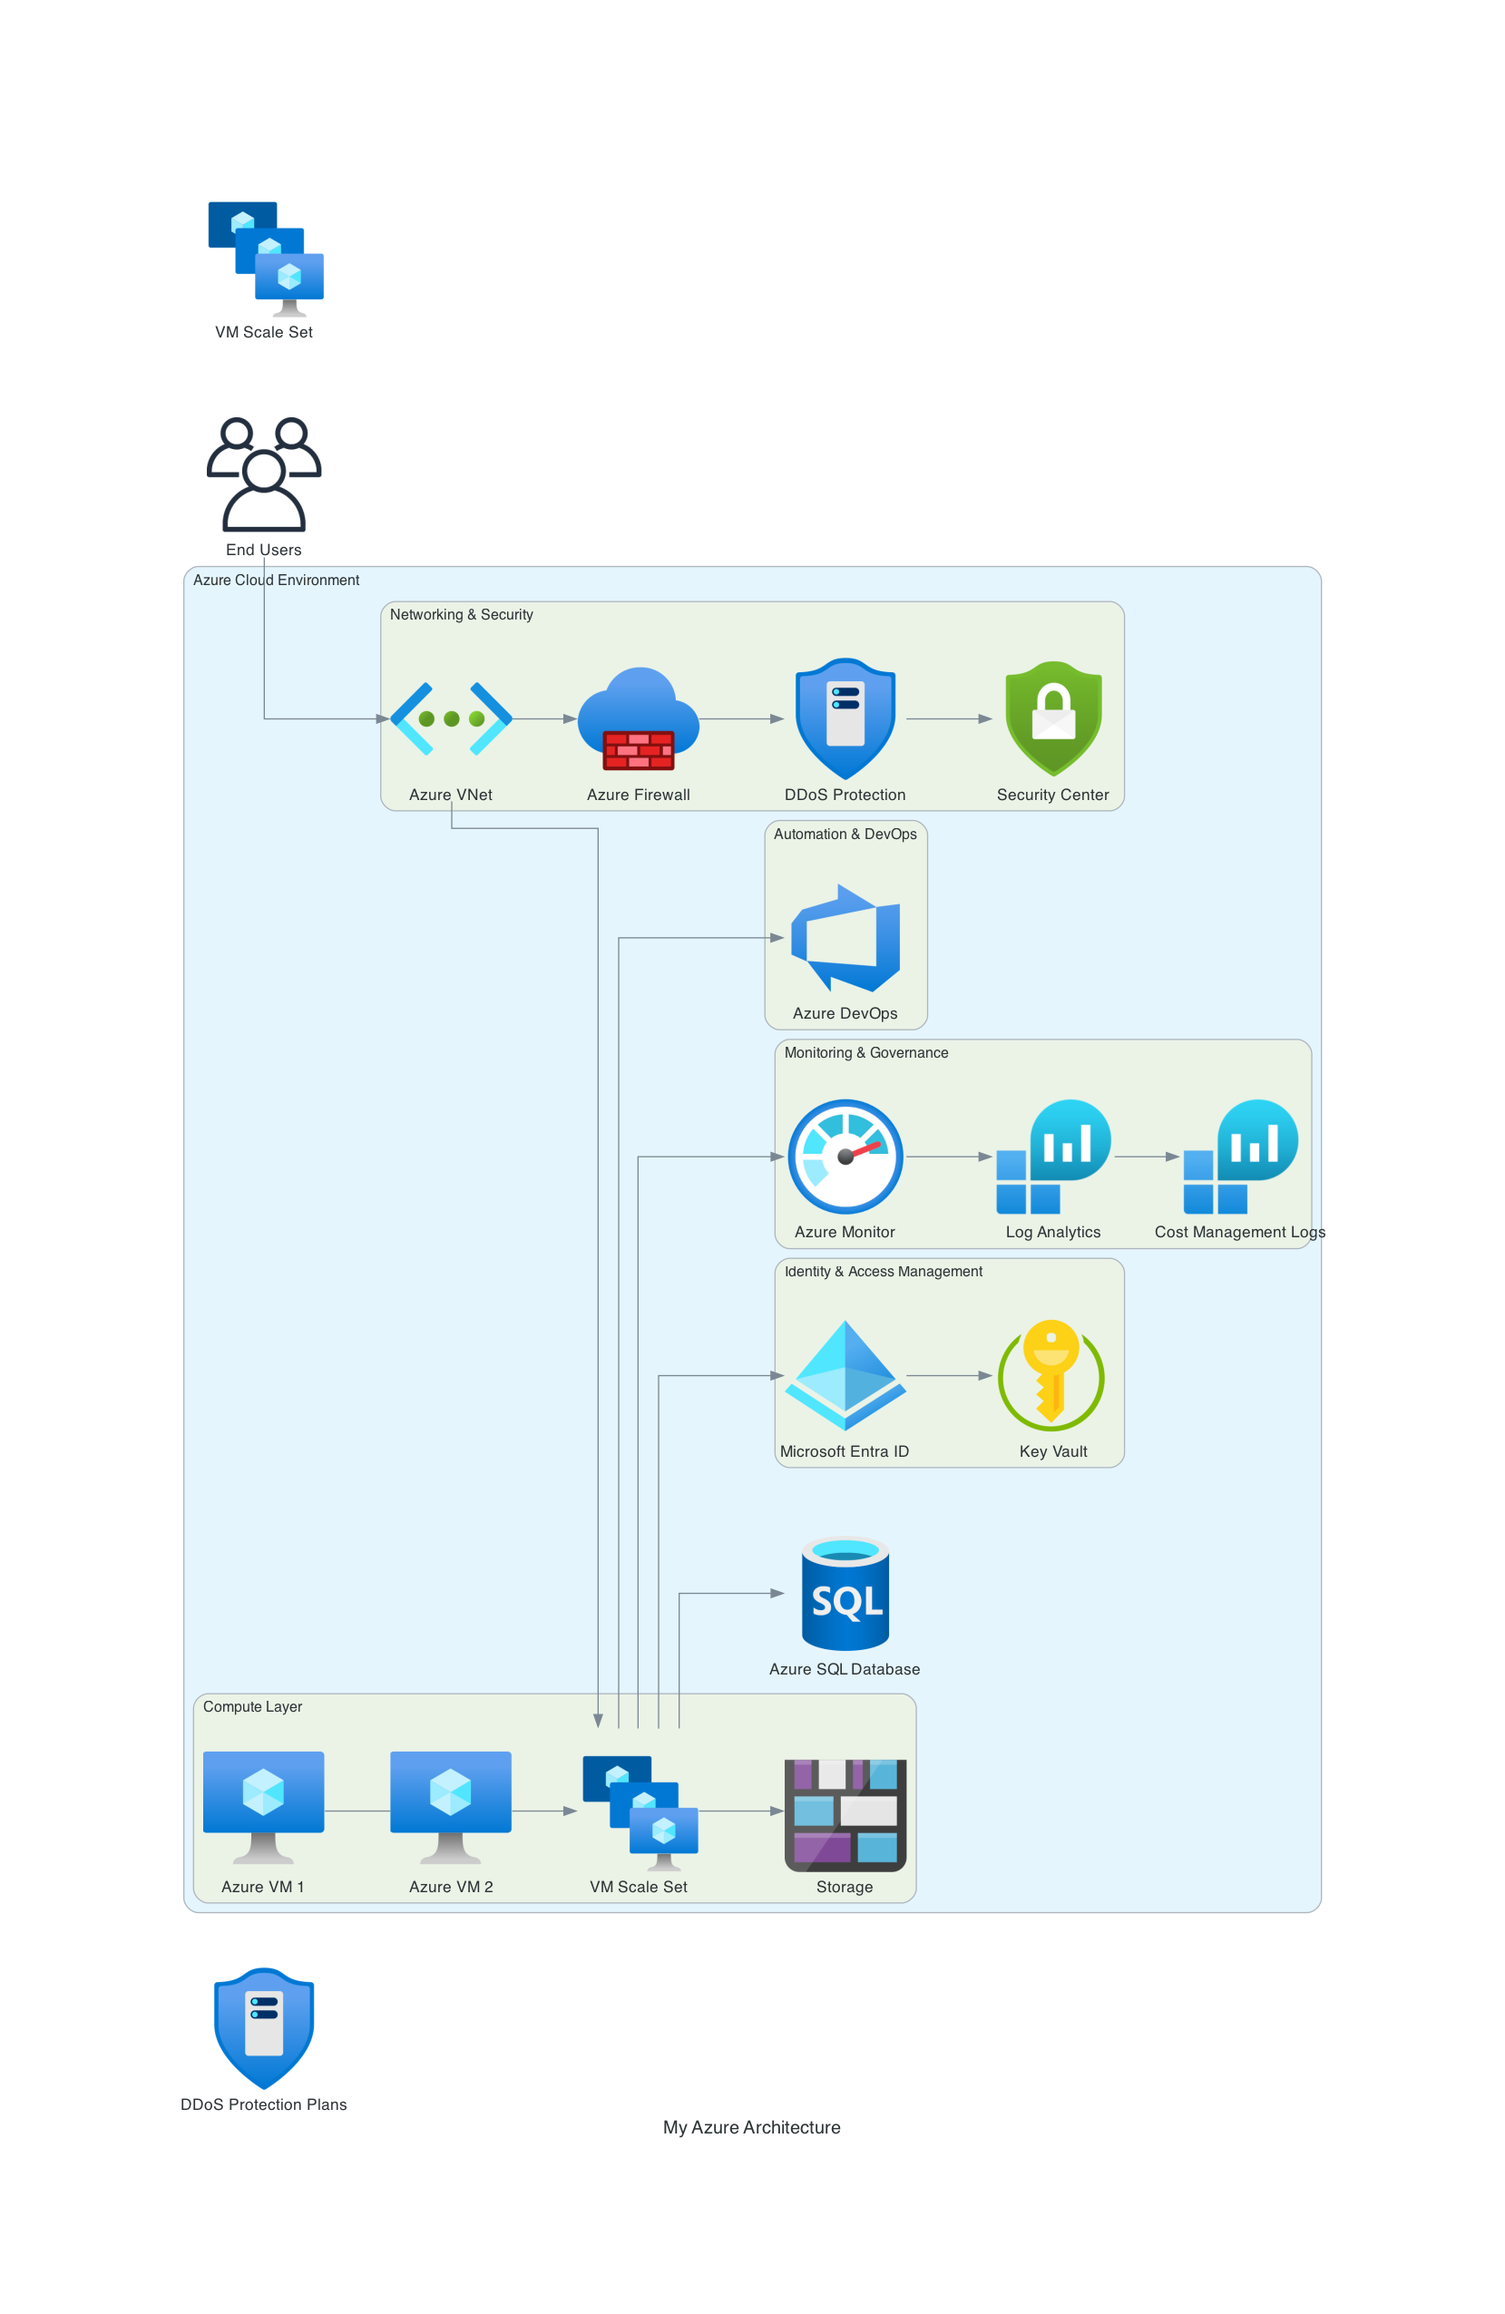
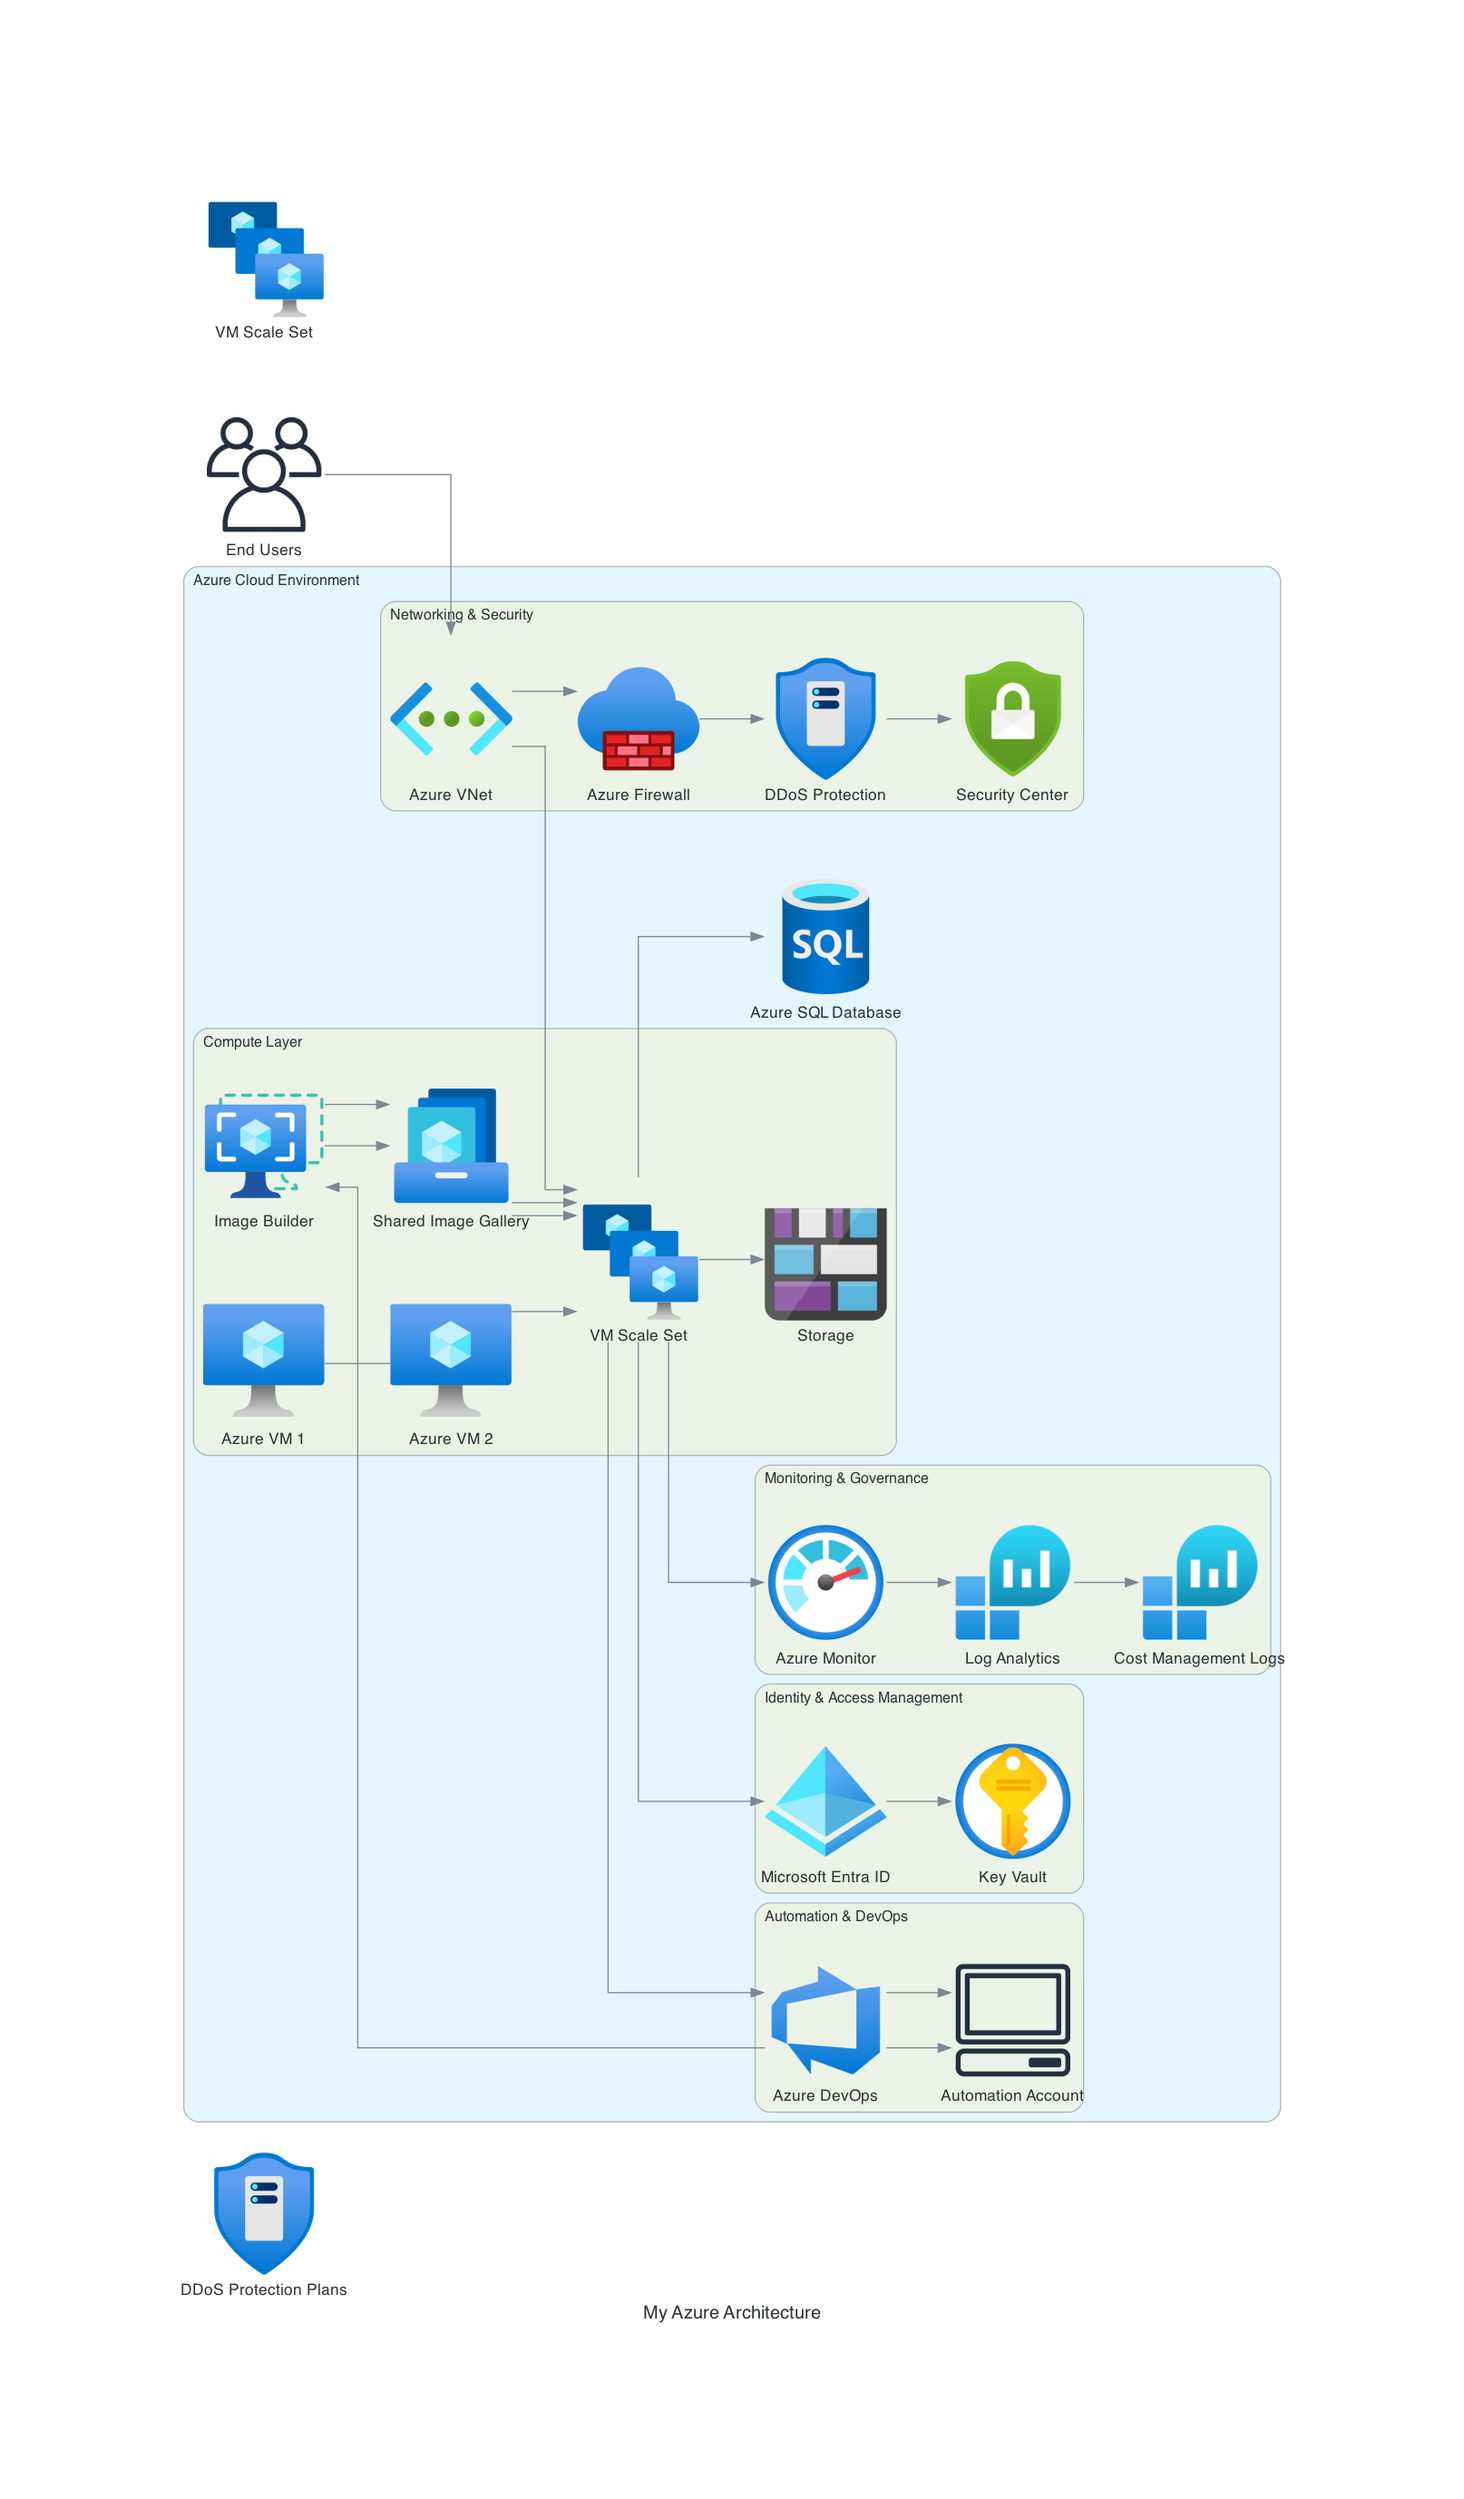
added last architecture and license

Changed region(s): [[0.1239, 0.0619, 0.8984, 0.929], [0.4337, 0.8981, 0.5576, 0.929], [0.3717, 0.4026, 0.4027, 0.4336]]

diff --git a/main.py b/main.py
@@ -29,11 +29,13 @@ from diagrams.azure.database import SQLDatabases
 from diagrams.azure.storage import BlobStorage
 from diagrams.onprem.client import Users
 from diagrams.azure.security import KeyVaults # Replace with the correct name found
+from diagrams.azure.compute import ImageTemplates, SharedImageGalleries
+from diagrams.onprem.client import Client
 
 
 
 # Create a diagram context
-with Diagram("My Azure Architecture", show=True) as diag:
+with Diagram("My Azure Architecture", filename="images/my_azure_architecture", show=False) as diag:
     # Use the DDOSProtectionPlans within the diagram context
     ddos = DDOSProtectionPlans("DDoS Protection Plans")
 # Create a high-level architecture diagram
@@ -61,8 +63,11 @@ with Diagram("My Azure Architecture", show=True) as diag:
             vm1 = VM("Azure VM 1")
             vm2 = VM("Azure VM 2")
             storage = BlobStorage("Storage")
-            
+            img_builder = ImageTemplates("Image Builder")
+            gallery = SharedImageGalleries("Shared Image Gallery")
+
             vm1 - vm2 >> vmss >> storage
+            img_builder >> gallery >> vmss
         
         # Identity & Access Management
         with Cluster("Identity & Access Management"):
@@ -78,6 +83,8 @@ with Diagram("My Azure Architecture", show=True) as diag:
         # CI/CD & Automation
         with Cluster("Automation & DevOps"):
             devops = Devops("Azure DevOps")
+            automation = Client("Automation Account")
+            devops >> automation
 
         # Data Layer
         database = SQLDatabases("Azure SQL Database")
@@ -86,4 +93,5 @@ with Diagram("My Azure Architecture", show=True) as diag:
         user >> vnet >> vmss >> database
         vmss >> ad >> keyvault
         vmss >> monitor >> logs >> cost
-        vmss >> devops
+        vmss >> devops >> automation
+        devops >> img_builder >> gallery >> vmss

diff --git a/README.md b/README.md
@@ -219,4 +219,4 @@ After deployment, the following outputs are available:
 
 ## License
 
-[Add your license here]
+This project is licensed under the Apache License 2.0 - see the [LICENSE](LICENSE) file for details.
